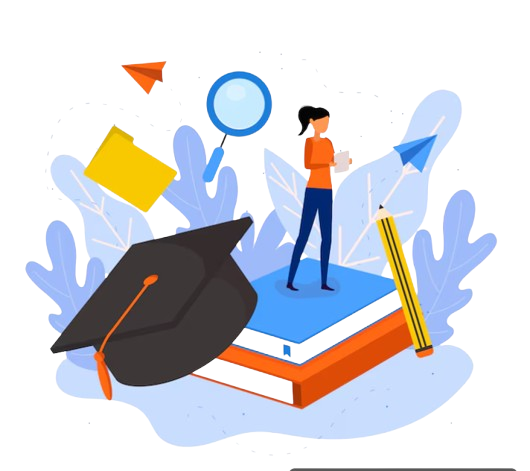
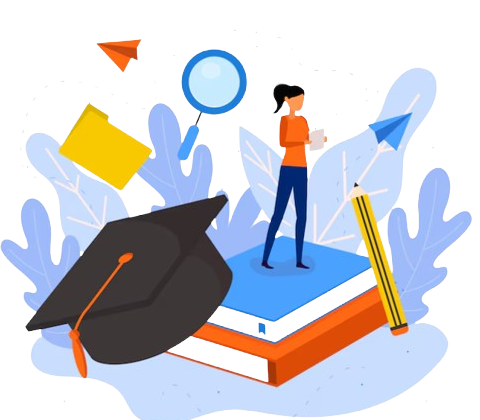
fix:fix academic details image and its size

diff --git a/web_app/src/pages/Register.tsx b/web_app/src/pages/Register.tsx
@@ -371,7 +371,7 @@ export default function Register() {
           <div className="bg-[#E5E5E5] bg-cover bg-center h-full w-full flex justify-evenly">
             {(componentNumber === 0 || componentNumber === 1) && (
               <img
-                className="w-[400px] mx-auto my-auto block"
+                className="w-[350px] mx-auto my-auto block"
                 src="/academic.png"
                 alt=""
               />
